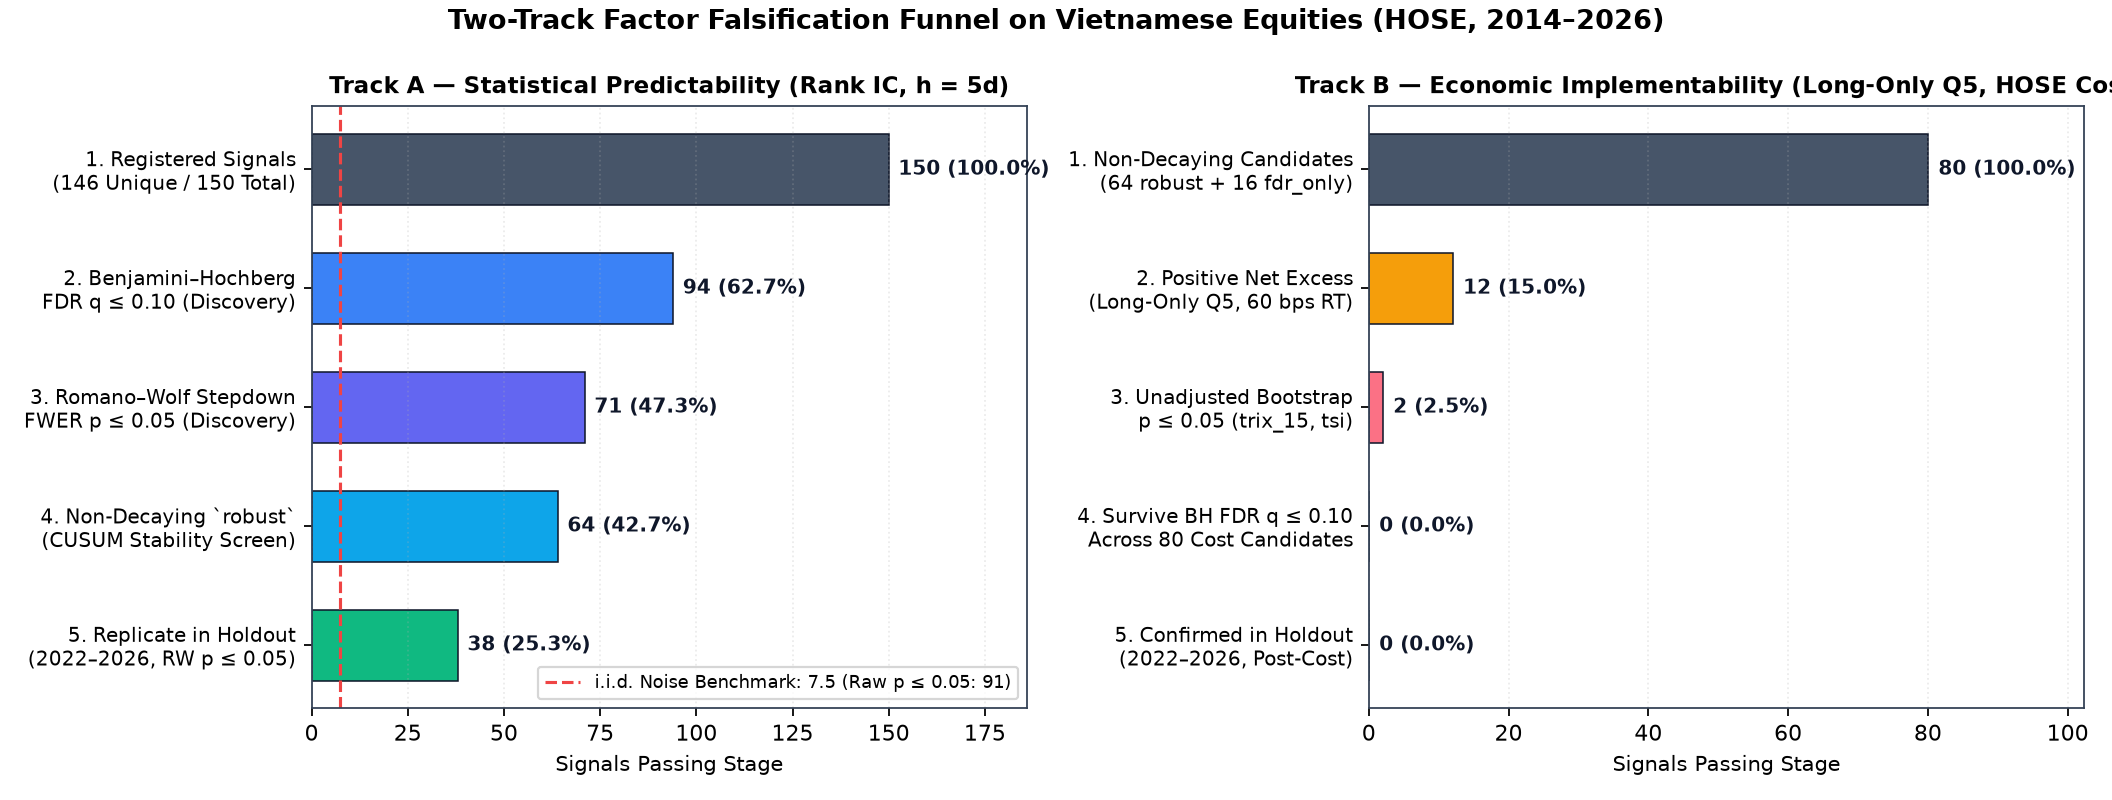
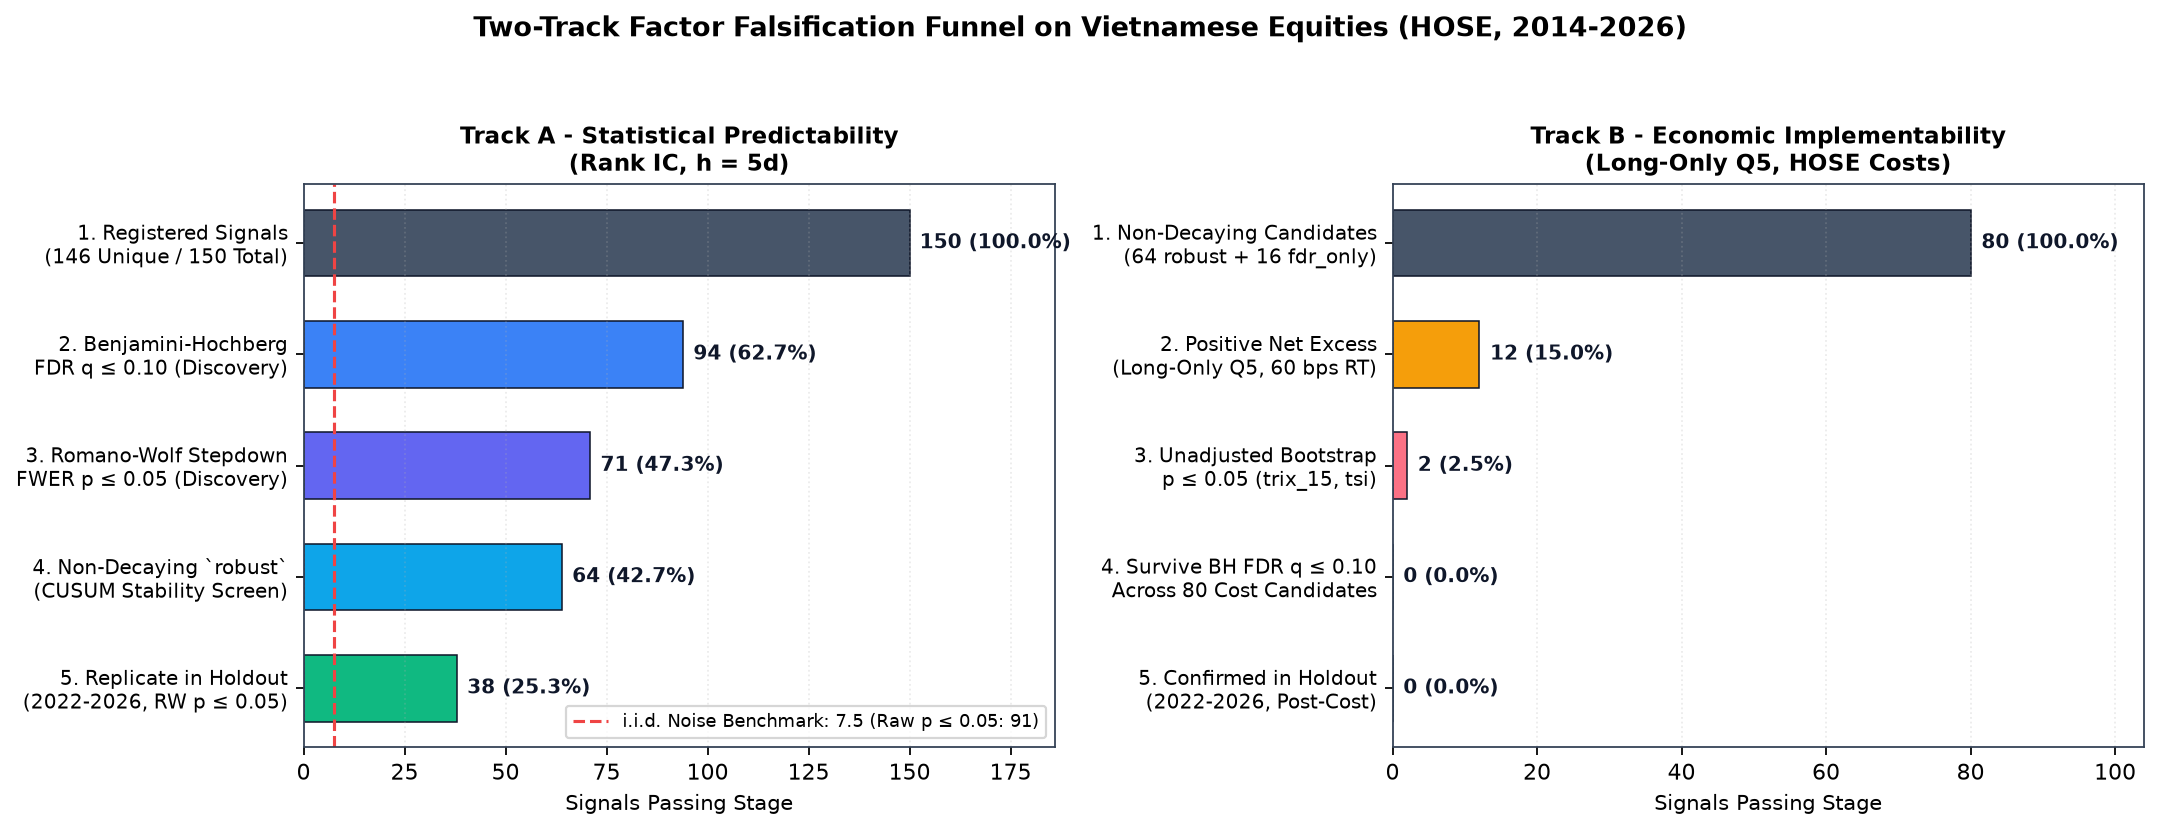
fix(research): prevent title and label overflow in factor falsification funnel figure
- Split Track A & Track B titles into two lines to prevent clipping at the canvas edge
- Use bbox_inches='tight' and tight_layout rect to safeguard margins
- Standardize hyphens to ASCII '-' and expand right x-limit padding for candidate counts

diff --git a/research/factor_zoo/render.py b/research/factor_zoo/render.py
@@ -76,10 +76,10 @@ def render_all(results_dir: Path = RESULTS_DIR) -> dict[str, str]:
     # ------------------------------------------------------------------
     stat_stages = [
         "1. Registered Signals\n(146 Unique / 150 Total)",
-        "2. Benjamini–Hochberg\nFDR q ≤ 0.10 (Discovery)",
-        "3. Romano–Wolf Stepdown\nFWER p ≤ 0.05 (Discovery)",
+        "2. Benjamini-Hochberg\nFDR q ≤ 0.10 (Discovery)",
+        "3. Romano-Wolf Stepdown\nFWER p ≤ 0.05 (Discovery)",
         "4. Non-Decaying `robust`\n(CUSUM Stability Screen)",
-        "5. Replicate in Holdout\n(2022–2026, RW p ≤ 0.05)",
+        "5. Replicate in Holdout\n(2022-2026, RW p ≤ 0.05)",
     ]
     stat_counts = [
         int(funnel["n_tested"]),
@@ -95,7 +95,7 @@ def render_all(results_dir: Path = RESULTS_DIR) -> dict[str, str]:
         "2. Positive Net Excess\n(Long-Only Q5, 60 bps RT)",
         "3. Unadjusted Bootstrap\np ≤ 0.05 (trix_15, tsi)",
         "4. Survive BH FDR q ≤ 0.10\nAcross 80 Cost Candidates",
-        "5. Confirmed in Holdout\n(2022–2026, Post-Cost)",
+        "5. Confirmed in Holdout\n(2022-2026, Post-Cost)",
     ]
     econ_counts = [
         int(funnel["n_cost_candidates_evaluated"]),
@@ -106,7 +106,7 @@ def render_all(results_dir: Path = RESULTS_DIR) -> dict[str, str]:
     ]
     econ_colors = ["#475569", "#f59e0b", "#fb7185", "#ef4444", "#dc2626"]
 
-    fig, (ax_stat, ax_econ) = plt.subplots(1, 2, figsize=(13.2, 5.0), dpi=160)
+    fig, (ax_stat, ax_econ) = plt.subplots(1, 2, figsize=(13.6, 5.2), dpi=160)
     y_stat = np.arange(len(stat_stages))[::-1]
     bars_stat = ax_stat.barh(
         y_stat, stat_counts, color=stat_colors, height=0.60, edgecolor="#0f172a", linewidth=0.7
@@ -136,8 +136,8 @@ def render_all(results_dir: Path = RESULTS_DIR) -> dict[str, str]:
     ax_stat.set_xlim(0, max(stat_counts) * 1.24)
     ax_stat.set_xlabel("Signals Passing Stage", fontsize=9.5)
     ax_stat.set_title(
-        "Track A — Statistical Predictability (Rank IC, h = 5d)",
-        fontsize=10.5,
+        "Track A - Statistical Predictability\n(Rank IC, h = 5d)",
+        fontsize=10.2,
         fontweight="bold",
     )
     ax_stat.grid(axis="x", linestyle=":")
@@ -161,23 +161,23 @@ def render_all(results_dir: Path = RESULTS_DIR) -> dict[str, str]:
         )
     ax_econ.set_yticks(y_econ)
     ax_econ.set_yticklabels(econ_stages, fontsize=8.8)
-    ax_econ.set_xlim(0, max(econ_counts) * 1.28)
+    ax_econ.set_xlim(0, max(econ_counts) * 1.30)
     ax_econ.set_xlabel("Signals Passing Stage", fontsize=9.5)
     ax_econ.set_title(
-        "Track B — Economic Implementability (Long-Only Q5, HOSE Costs)",
-        fontsize=10.5,
+        "Track B - Economic Implementability\n(Long-Only Q5, HOSE Costs)",
+        fontsize=10.2,
         fontweight="bold",
     )
     ax_econ.grid(axis="x", linestyle=":")
 
     fig.suptitle(
-        "Two-Track Factor Falsification Funnel on Vietnamese Equities (HOSE, 2014–2026)",
+        "Two-Track Factor Falsification Funnel on Vietnamese Equities (HOSE, 2014-2026)",
         fontsize=12.0,
         fontweight="bold",
         y=0.99,
     )
-    fig.tight_layout()
-    fig.savefig(fig_dir / "01_falsification_funnel.png")
+    fig.tight_layout(rect=[0, 0, 1, 0.95])
+    fig.savefig(fig_dir / "01_falsification_funnel.png", bbox_inches="tight")
     plt.close(fig)
 
     # ------------------------------------------------------------------
